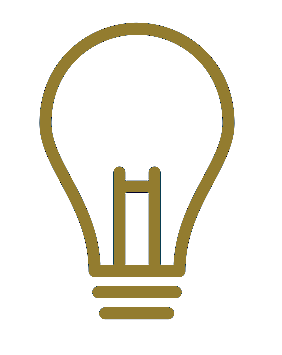
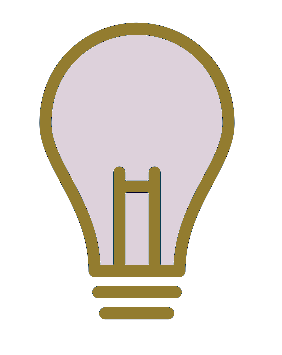
adds css

Changed region(s): [[0.1702, 0.093, 0.7943, 0.7437]]

diff --git a/client/src/quiz/components/footer.vue b/client/src/quiz/components/footer.vue
@@ -1,14 +1,21 @@
 <template lang="html">
   <div class="footerDiv">
-    <nav>
-      <ul>
-        <li>Learning Libary</li>
-        <li>My Results</li>
-        <li>Logo Out</li>
-      </ul>
-    </nav>
-      <h1><img id="logo"src="../../../public/earth.png" alt="earth logo" />Planet Saver</h1>
-  </div>
+<div class="footerItem">
+  <h3><img id="earth"src="../../../public/earth.png" alt="earth logo">Planet Saver</h3>
+  <p>Planet House</br> 101 High Street</br>New Town</br></br>Tel: 0141 100 8888</br>Email: general@planetsaver.co.uk
+  </p>
+</div>
+
+        <div class="footerItem">
+          <nav>
+            <ul>
+              <li>Contact Us</li>
+            </ul>
+          </nav>
+          <img id="logo"src="../../../public/socialLogos.png" alt="social media logo">
+
+</div>
+</div>
 </template>
 
 <script>
@@ -20,15 +27,36 @@ export default {
 <style lang="css" scoped>
 
 .footerDiv {
-  display: inline-flex;
+  display: flex;
+  justify-content: space-between;
+  align-items: center;
+}
+
+.footerItem {
+  display: flex;
+  justify-content: center;
+  align-items: center;
 }
 
 img {
 padding: 10px;
+height: 50px;
+width: 50px;
 }
 
-h1 {
+#logo {
+  height: 150px;
+  width: 200px;
+}
+
+h1, h3 {
   color: #A48D3D;
+}
+
+p {
+  margin: 10px;
+  font-family: 'Varela Round', cursive;
+  font-size: 12px;
 }
 
 
@@ -42,7 +70,7 @@ ul {
 }
 
 li {
-  float: right;
+  float: left;
   padding: 25px;
 }
 

diff --git a/client/src/quiz/components/QuizResults.vue b/client/src/quiz/components/QuizResults.vue
@@ -1,12 +1,18 @@
 <template lang="html">
-  <div>
-    <h2>Quiz Results</h2>
-    <p>Result: {{this.percentage}}%</p>
-    <p>{{this.passMessage}}</p>
-    <button type="button" name="button">Return to Module Menu</button>
-    <div v-if="passed">
+  <div class="center">
+    <div id="header-wrapper">
+      <h2>Quiz Results</h2>
+    </div>
+    <div class="content">
+      <h3>Result: {{this.percentage}}%</h3>
+      <p>{{this.passMessage}}</p>
+      <button onclick="window.location.href = 'http://localhost:8080/home ';">Return To Module List</a></button> 
+      <div v-if="passed">
     </div>
     <button v-else="passed" v-on:click="this.retakeQuiz">Retake Quiz</button>
+    </div>
+
+
   </div>
 </template>
 

diff --git a/client/src/quiz/components/QuizQuestion.vue b/client/src/quiz/components/QuizQuestion.vue
@@ -1,6 +1,7 @@
 <template lang="html">
   <div class="quiz-wrapper">
-  <p>{{fullQuestion.question}}</p>
+
+  <p><img src="../../../public/lightbulb.png" alt="light bulb logo" height="50">{{fullQuestion.question}}</p>
   <div v-for="(option, index) in fullQuestion.options">
   <input type="radio" :name="fullQuestion.number" :value="option" v-on:click="handleOnClick">
   {{option}}</br>
@@ -34,6 +35,11 @@ export default {
 
 <style lang="css" scoped>
 .quiz-wrapper {
-  margin: 10px
+  margin: 10px;
+  display: flex;
+  justify-content: center;
+  flex-direction: column;
+  align-items: center;
+
 }
 </style>
